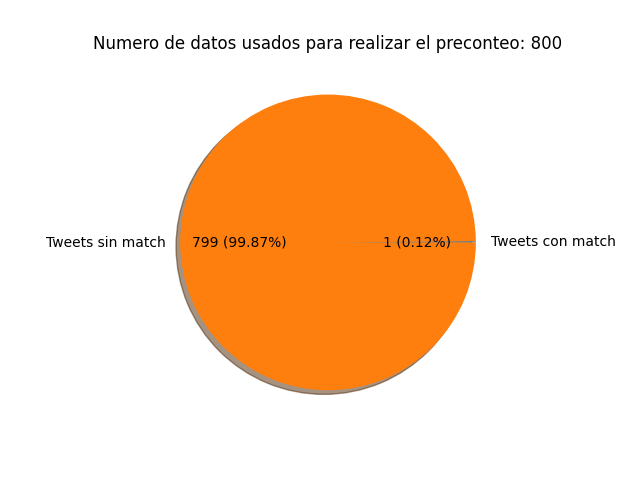
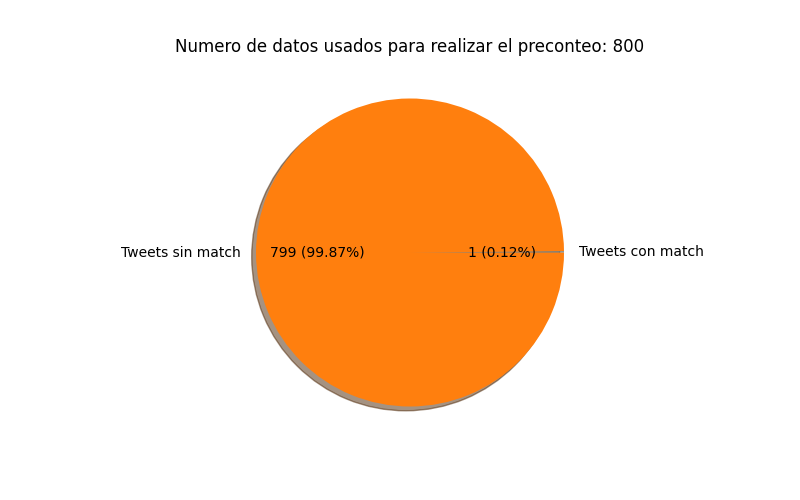
Ya el mark down quedo mas bonito

diff --git a/README.md b/README.md
@@ -6,20 +6,30 @@ Para la realización de este proyecto se realizo la captura de 1.681.002 Tweets 
 
 A continuación se muestran de forma gráfica las fechas en las que se capturaron los datos junto con la cantidad de Tweet que se capturaron en cada fecha.
 
-![Fechas de captura](captura_de_datos/graficas_datos/arregaldos/0_analisis_fechas.png)
+<div style="text-align:center">
+<img src="captura_de_datos/graficas_datos/arregaldos/0_analisis_fechas.png" alt="Fechas de captura"/><br>
+</div><br>
 
 La captura de los Tweets no se restringió a ciertas zonas especificas, sin embargo, debido a las políticas de Twitter los usuarios si así lo desean pueden proteger su ubicación o compartirla, por defecto Twitter protege la ubicación de sus usuarios, en consecuencia la mayoría de las ubicaciones en las que se originan los Tweets son desconocidas, en la siguiente gráfica se muestra con mas detalle la cantidad de Tweets de los que se conoce su origen en contraste con los Tweets cuyo origen geográfico es desconocido.
 
-![Paises desconocidos vs conocidos](captura_de_datos/graficas_datos/arregaldos/0_analisis_paises.png)
+<div style="text-align:center">
+<img src="captura_de_datos/graficas_datos/arregaldos/0_analisis_paises.png" alt="Paises desconocidos vs conocidos"/><br>
+</div><br>
 
 Los idiomas como ya fue mencionado se restringieron a ingles o español, sin embargo, algunos datos pudieron sufrir daños o en algunos casos por razones desconocidas el idioma no fue registrado, las proporciones de los idiomas de la totalidad de los Tweets capturados se muestra a continuación.
 
-![Proporcion de idiomas](captura_de_datos/graficas_datos/arregaldos/0_analisis_idiomas.png)
+<div style="text-align:center">
+<img src="captura_de_datos/graficas_datos/arregaldos/0_analisis_idiomas.png" alt="Proporcion de idiomas"/><br>
+</div><br>
 
 Como se menciono al principio uno de los objetivos del proyecto es discriminar los textos que tienen el sentimiento de luto asociados y los que no, para esto en primera instancia se realizo un prefiltrado de datos usando palabras o mensajes relacionados con luto, como “rip” o “descansa en la gloria de dios” que se buscaron en el texto del Tweet, estos fueron etiquetados manualmente para ser usados posteriormente en el entrenamiento de un modelo de ML el cual fue entrenado para realizar esta tarea, los resultados del prefiltrado con etiquetas se muestra a continuacion.
 
-![Datos prefiltrado luto](captura_de_datos/graficas_datos/arregaldos/0_analisis_preconteo_mourning.png)
+<div style="text-align:center">
+<img src="captura_de_datos/graficas_datos/arregaldos/0_analisis_preconteo_mourning.png" alt="Datos prefiltrado luto"/><br>
+</div><br>
 
 De los datos que tuvieron coincidencias y fueron clasificados como asociados al luto la proporción de idiomas es la siguiente.
 
-![Proporcion de idiomas datos prefiltrado luto](captura_de_datos/graficas_datos/arregaldos/0_analisis_idiomas_preconteo_mourning.png)
+<div style="text-align:center">
+<img src="captura_de_datos/graficas_datos/arregaldos/0_analisis_idiomas_preconteo_mourning.png" alt="Proporcion de idiomas datos prefiltrado luto"/><br>
+</div><br>
